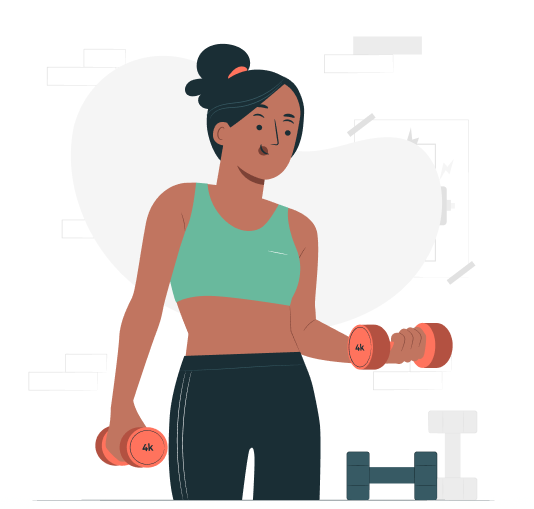
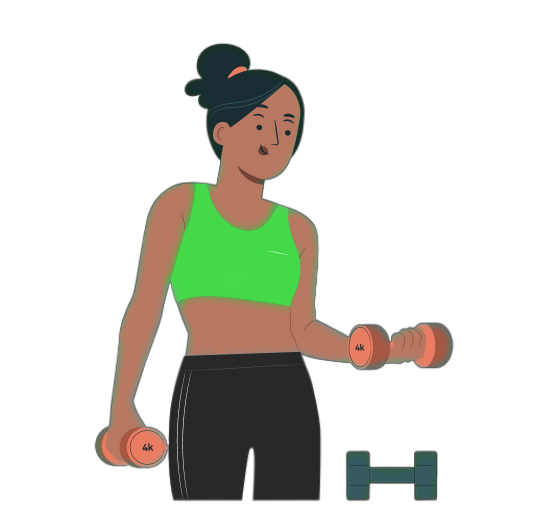
Pic update and link to figma added

diff --git a/styles.css b/styles.css
@@ -19,8 +19,8 @@ body {
 }
 
 .container-header {
-  margin-top: 15vh;
-  margin-top: 15svh;
+  margin-top: 10vh;
+  margin-top: 10svh;
 }
 
 .nav-list {
@@ -67,11 +67,25 @@ body {
   font-size: 20px;
   letter-spacing: 0.03em;
   line-height: 1.3;
-  margin-bottom: 50px;
+  margin-bottom: 5px;
   text-indent: 15px;
+  margin-bottom: 50px;
 }
 .container-main > p > span {
   color: rgb(0, 199, 0);
+}
+.container-main > a {
+  width: 30%;
+  margin-bottom: 50px;
+  text-decoration: none;
+  color: rgb(0, 199, 0);
+  letter-spacing: 0.03em;
+  line-height: 1.3;
+  margin-left: 95px;
+}
+.container-main > a:hover, .container-main > a:focus {
+  color: rgb(98, 79, 128);
+  text-decoration: underline;
 }
 .container-main > button {
   width: 125px;
@@ -82,7 +96,7 @@ body {
   border-radius: 12px;
   border: none;
   cursor: pointer;
-  margin-left: 40px;
+  margin-left: 80px;
 }
 .container-main > button:hover, .container-main > button:focus {
   opacity: 0.7;

diff --git a/styles.scss b/styles.scss
@@ -19,8 +19,8 @@ body {
 }
 
 .container-header {
-  margin-top: 15vh;
-  margin-top: 15svh;
+  margin-top: 10vh;
+  margin-top: 10svh;
 }
 
 .nav-list {
@@ -74,11 +74,28 @@ body {
     font-size: 20px;
     letter-spacing: 0.03em;
     line-height: 1.3;
-    margin-bottom: 50px;
+    margin-bottom: 5px;
     text-indent: 15px;
+    margin-bottom: 50px;
 
     > span {
       color: rgb(0, 199, 0);
+    }
+  }
+
+  > a {
+    width: 30%;
+    margin-bottom: 50px;
+    text-decoration: none;
+    color: rgb(0, 199, 0);
+    letter-spacing: 0.03em;
+    line-height: 1.3;
+    margin-left: 95px;
+
+    &:hover,
+    &:focus {
+      color: rgb(98, 79, 128);
+      text-decoration: underline;
     }
   }
 
@@ -91,7 +108,7 @@ body {
     border-radius: 12px;
     border: none;
     cursor: pointer;
-    margin-left: 40px;
+    margin-left: 80px;
 
     &:hover,
     &:focus {

diff --git a/index.html b/index.html
@@ -30,7 +30,12 @@
           in your body and <span>get much more performance</span> and quality of
           life.
         </p>
+
         <button>Start now</button>
+        <a
+          href="https://www.figma.com/file/pwgezkALSN7KNbB15lRFJR/Layout-to-study-HTML-%26-CSS-(Community)?type=design&node-id=1212-47&t=IqGNkRuZPwAgAgYp-0"
+          >Link to Figma</a
+        >
         <img class="pic" src="pic.png" width="450" height="450" />
       </div>
 
